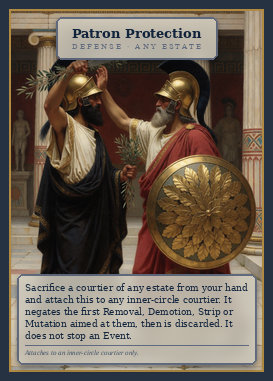
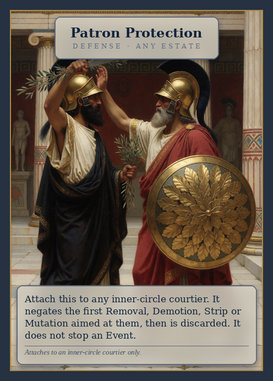
Drop the courtier costs from Defenses and Adoption
- A Defense no longer costs a matching-estate courtier from hand. Its
  estate now says whom it can shield (Patron Protection: anyone).
- Adoption no longer costs a family courtier. The target takes any
  house but their own, chosen as Conversion chooses a faith.
- Old records replay with the costs, and --courtier-costs restores them
  for simulations.
- The five Defenses and Adoption are re-rendered with the new text.
- The friendly first deal moves to seed 2791 (House Rising: Argaian,
  two in hand, all three stand-in bots win from it).

Work in progress: the hand-limit browser test needs a new seed, and the
agenda balance under the new rules is being measured.

Claude-Session: https://claude.ai/code/session_01N33ZYiZig83JtVZBownZVB

diff --git a/web/src/components/Rules.tsx b/web/src/components/Rules.tsx
@@ -21,7 +21,7 @@ const CARDS: [string, string][] = [
   ["Promotion", "Moves an outer courtier into an occupied seat of their estate; the sitter is bumped to the outer circle."],
   ["Demotion", "Sends a seated courtier back to the outer circle, leaving the seat empty."],
   ["Removal", "A courtier leaves play. Targeted Poisoning allows a saving roll."],
-  ["Defense", "Paid for with a courtier of the same estate from your hand, it shields a seated courtier from the next removal, demotion, strip or mutation. It does not stop events."],
+  ["Defense", "Shields a seated courtier of its estate (Patron Protection: anyone) from the next removal, demotion, strip or mutation. It costs nothing, and does not stop events."],
   ["Strip", "Takes away a courtier's house (Castration), or their faith, leaving them godless (Excommunication)."],
   ["Mutation", "Changes one of a courtier's attributes. Each attribute can be changed only once."],
   ["Outmaneuver", "The player you name skips their next turn."],

diff --git a/web/src/components/CardView.tsx b/web/src/components/CardView.tsx
@@ -104,7 +104,7 @@ const BY_NAME: Record<string, string> = {
   Apostasy: "Faith → Godless",
   "Go Native": "Origin → Barbarian",
   Assimilate: "Origin → Imperial",
-  Adoption: "House → a sacrifice's",
+  Adoption: "House → another",
   Castration: "House → none",
   Excommunication: "Faith → Godless",
   "Targeted Poisoning": "Kill, if no save",
@@ -122,7 +122,7 @@ export function ACTION_LABEL(card: Card): string {
     case "Removal":
       return `Kill a ${estate}courtier`;
     case "Defense":
-      return card.estate ? `Shield · pay a ${card.estate}` : "Shield a courtier";
+      return `Shield a ${estate}courtier`;
     default:
       return "";
   }

diff --git a/web/tests/game.spec.ts b/web/tests/game.spec.ts
@@ -39,7 +39,7 @@ test("a new player's first game is the kind deal, unless they choose a seed", as
   await setSeed(page, "");
   await page.getByTestId("deal").click();
   // You move first, with House Rising: Mitreas.
-  await expect(page.getByTestId("briefing").locator("h2")).toHaveText("House Rising: Mitreas");
+  await expect(page.getByTestId("briefing").locator("h2")).toHaveText("House Rising: Argaian");
   await expect(page.getByTestId("briefing")).toContainText("You move first.");
 });
 

diff --git a/web/src/firstGame.ts b/web/src/firstGame.ts
@@ -5,7 +5,7 @@
 // choosing at random wins 10 games in 60 (about one in fifteen on a random
 // deal). tests/test_friendly_seed.py keeps the engine from quietly changing it.
 
-export const FIRST_GAME_SEED = 1205;
+export const FIRST_GAME_SEED = 2791;
 
 /** The table the seed was chosen for: you and one of each bot, in this order. */
 export const FIRST_GAME_TABLE = ["naive", "greedy", "strategic"];

diff --git a/tests/test_rules.py b/tests/test_rules.py
@@ -342,8 +342,18 @@ class TestRemovalsAndDefenses(unittest.TestCase):
         apply_action(state, 0, Action(PLAY, card=kill2, courtier=defended), FixedRng())
         self.assertIsNone(state.seats[Seat.ARCHPRIEST])  # second one lands
 
-    def test_defense_costs_a_matching_estate_courtier(self):
+    def test_a_defense_costs_nothing_and_its_estate_is_whom_it_shields(self):
         state = fresh()
+        church = seat(state, "Hand of the Oracle", Seat.ARCHPRIEST)
+        soldier = seat(state, "Keeper of the Long Peace", Seat.LORD_GENERAL)
+        bodyguard = give(state, 0, "Bodyguard")[0]  # Military
+        self.assertEqual({a.courtier for a in card_actions(state, 0, bodyguard)}, {soldier})
+        self.assertTrue(all(a.sacrifice < 0 for a in card_actions(state, 0, bodyguard)))
+        patron = give(state, 0, "Patron Protection")[0]  # anyone
+        self.assertEqual({a.courtier for a in card_actions(state, 0, patron)}, {church, soldier})
+
+    def test_old_rules_defense_costs_a_matching_estate_courtier(self):
+        state = fresh(courtier_costs=True)
         seat(state, "Hand of the Oracle", Seat.ARCHPRIEST)
         shield = give(state, 0, "Bodyguard")[0]  # Military
         give(state, 0, "Beloved of the Gods")  # Church: cannot pay
@@ -351,8 +361,8 @@ class TestRemovalsAndDefenses(unittest.TestCase):
         give(state, 0, "Crosser of Rivers")  # Military: can pay
         self.assertTrue(card_actions(state, 0, shield))
 
-    def test_patron_protection_accepts_any_estate(self):
-        state = fresh()
+    def test_old_rules_patron_protection_accepts_any_estate(self):
+        state = fresh(courtier_costs=True)
         seat(state, "Hand of the Oracle", Seat.ARCHPRIEST)
         shield = give(state, 0, "Patron Protection")[0]
         give(state, 0, "Golden Thumb")
@@ -428,8 +438,19 @@ class TestDemotionsStripsMutations(unittest.TestCase):
         apply_action(state, 0, Action(PLAY, card=strip, courtier=target), FixedRng())
         self.assertIs(state.cstate[target].faith, Faith.NONE)
 
-    def test_adoption_sacrifices_a_family_courtier(self):
+    def test_adoption_gives_any_house_but_their_own(self):
         state = fresh()
+        adopt = give(state, 0, "Adoption")[0]
+        target = outer(state, "Crosser of Rivers")[0]  # Mitreas
+        options = {a.value for a in card_actions(state, 0, adopt) if a.courtier == target}
+        self.assertEqual(options, {"Amonides", "Argaian"})
+        action = next(a for a in card_actions(state, 0, adopt) if a.courtier == target and a.value == "Argaian")
+        apply_action(state, 0, action, FixedRng())
+        self.assertIs(state.cstate[target].family, Family.ARGAIAN)
+        self.assertTrue(state.cstate[target].mutated_family)
+
+    def test_old_rules_adoption_sacrifices_a_family_courtier(self):
+        state = fresh(courtier_costs=True)
         adopt, donor = give(state, 0, "Adoption", "Beloved of the Gods")
         target = outer(state, "Silver Tongue")[0]  # no family
         action = next(

diff --git a/tools/card_text.py b/tools/card_text.py
@@ -140,35 +140,30 @@ RULES: dict[str, str] = {
         "return later as a new person with their printed attributes."
     ),
     # --- Defenses -----------------------------------------------------------
-    # The estate on a defense is the estate of the courtier it costs, not of
-    # the courtier it guards: any inner-circle courtier may be shielded.
+    # The estate on a defense is whom it can shield: Patron Protection, any
+    # inner-circle courtier; the others, one of their estate.
     "Patron Protection": (
-        "Sacrifice a courtier of any estate from your hand and attach this to "
-        "any inner-circle courtier. It negates the first Removal, Demotion, "
+        "Attach this to any inner-circle courtier. It negates the first Removal, Demotion, "
         "Strip or Mutation aimed at them, then is discarded. It does not stop "
         "an Event."
     ),
     "Sanctuary": (
-        "Sacrifice a Church courtier from your hand and attach this to any "
-        "inner-circle courtier. It negates the first Removal, Demotion, Strip "
+        "Attach this to an inner-circle Church courtier. It negates the first Removal, Demotion, Strip "
         "or Mutation aimed at them, then is discarded. It does not stop an "
         "Event."
     ),
     "Bodyguard": (
-        "Sacrifice a Military courtier from your hand and attach this to any "
-        "inner-circle courtier. It negates the first Removal, Demotion, Strip "
+        "Attach this to an inner-circle Military courtier. It negates the first Removal, Demotion, Strip "
         "or Mutation aimed at them, then is discarded. It does not stop an "
         "Event."
     ),
     "Deep Pockets": (
-        "Sacrifice a Merchant courtier from your hand and attach this to any "
-        "inner-circle courtier. It negates the first Removal, Demotion, Strip "
+        "Attach this to an inner-circle Merchant courtier. It negates the first Removal, Demotion, Strip "
         "or Mutation aimed at them, then is discarded. It does not stop an "
         "Event."
     ),
     "Popularity": (
-        "Sacrifice a Commons courtier from your hand and attach this to any "
-        "inner-circle courtier. It negates the first Removal, Demotion, Strip "
+        "Attach this to an inner-circle Commons courtier. It negates the first Removal, Demotion, Strip "
         "or Mutation aimed at them, then is discarded. It does not stop an "
         "Event."
     ),
@@ -213,8 +208,8 @@ RULES: dict[str, str] = {
     "Go Native": "A courtier's Origin becomes Barbarian.",
     "Assimilate": "A courtier's Origin becomes Imperial.",
     "Adoption": (
-        "Sacrifice a courtier of a family from your hand. The target takes "
-        "that family as their own."
+        "A courtier's House becomes any house but their own; you choose it. A "
+        "courtier of no house may be brought into any of the three."
     ),
     # --- Pivot and Outmaneuver ----------------------------------------------
     "Schismatic Event": (

diff --git a/succession/actions.py b/succession/actions.py
@@ -23,7 +23,7 @@ from .cards import (
     EFFECT_REDEAL,
     EFFECT_RESHUFFLE,
 )
-from .enums import FAITHS, SEAT_ESTATE, CardKind, Estate, Faith, Family, Seat
+from .enums import FAITHS, FAMILIES, SEAT_ESTATE, CardKind, Estate, Faith, Family, Seat
 from .state import GameState
 
 #: Kinds a Siege stops outright -- anything that moves a courtier or changes one.
@@ -165,21 +165,26 @@ def card_actions(state: GameState, player: int, uid: int) -> list[Action]:
         return out
 
     if kind is CardKind.DEFENSE:
-        costs = [
-            h
-            for h in hand
-            if h != uid
-            and state.card(h).is_courtier
-            and _estate_matches(card.estate, state.cstate[h].estate)
-        ]
+        paid = state.config.courtier_costs
+        costs = (
+            [
+                h
+                for h in hand
+                if h != uid
+                and state.card(h).is_courtier
+                and _estate_matches(card.estate, state.cstate[h].estate)
+            ]
+            if paid
+            else [-1]
+        )
         if not costs:
             return out
+        # Without a cost, the card's estate is whom it can shield.
+        matching = state.config.defense_requires_matching_target or not paid
         for cand in state.inner_uids():
             if cand in state.defenses:
                 continue
-            if state.config.defense_requires_matching_target and not _estate_matches(
-                card.estate, state.cstate[cand].estate
-            ):
+            if matching and not _estate_matches(card.estate, state.cstate[cand].estate):
                 continue
             for cost in costs:
                 out.append(Action(PLAY, card=uid, courtier=cand, sacrifice=cost))
@@ -238,7 +243,18 @@ def _mutation_actions(state: GameState, player: int, uid: int) -> list[Action]:
                     out.append(Action(PLAY, card=uid, courtier=cand, value=faith.value))
         return out
 
-    if attribute == "family":  # Adoption
+    if attribute == "family" and not state.config.courtier_costs:  # Adoption, free
+        # Any house but the one they hold, as Conversion does for faith.
+        for cand in _touchable(state):
+            cs = state.cstate[cand]
+            if cs.mutated_family:
+                continue
+            for family in FAMILIES:
+                if family is not cs.family:
+                    out.append(Action(PLAY, card=uid, courtier=cand, value=family.value))
+        return out
+
+    if attribute == "family":  # Adoption, paid for with a family courtier
         costs = [
             h
             for h in hand

diff --git a/succession/runner.py b/succession/runner.py
@@ -100,6 +100,7 @@ def build_config(args: argparse.Namespace, tiers=BOT_TIERS) -> Config:
         caster_edge=args.caster_edge,
         defense_requires_matching_target=args.defense_matches_target,
         excommunication_godless=not args.excommunication_none,
+        courtier_costs=args.courtier_costs,
         house_rising_requires_preferred_seat=not args.house_any_three,
         house_preferred_estates=parse_preferred_estates(args.house_preferred_estates),
         faith_seats=args.faith_seats,
@@ -219,6 +220,7 @@ def add_rules_arguments(parser: argparse.ArgumentParser, players: str = DEFAULT_
     parser.add_argument("--events-held", action="store_true", help="events are held and played from hand (default: an event plays the moment it is drawn, and the drawer draws again)")
     parser.add_argument("--minor-events-on-draw", action="store_true", help="with --events all: only the minor events play when drawn; the majors are held")
     parser.add_argument("--removed-out-of-game", action="store_true", help="killed courtiers never return (default: they may reshuffle back as a new person)")
+    parser.add_argument("--courtier-costs", action="store_true", help="variant: Defenses and Adoption cost a courtier from your hand (the old rules)")
     parser.add_argument("--excommunication-none", action="store_true", help="variant: Excommunication leaves an empty faith (None) rather than Godless")
     parser.add_argument("--defense-matches-target", action="store_true", help="an estate Defense may only protect a courtier of that estate")
     parser.add_argument("--balance-seats", type=int, default=7, help="seats that must be filled for Balance to count (default all 7)")

diff --git a/succession/state.py b/succession/state.py
@@ -71,6 +71,10 @@ class Config:
     #: Require an estate-specific Defense to protect a courtier of that estate
     #: (the text only requires the *sacrificed* courtier to match).
     defense_requires_matching_target: bool = False
+    #: Defenses and Adoption cost a courtier from your hand. Off (the rules
+    #: now): a Defense's estate says whom it can shield instead of what it
+    #: costs, and Adoption picks the new house freely, like Conversion.
+    courtier_costs: bool = False
     #: Excommunication leaves a courtier Godless. False: it leaves the old
     #: empty faith (None), which a godless courtier could still be stripped to.
     excommunication_godless: bool = True

diff --git a/succession/cards.py b/succession/cards.py
@@ -140,7 +140,8 @@ MUTATION_CARDS: tuple[CardDef, ...] = (
     CardDef("Apostasy", CardKind.MUTATION, attribute="faith", value=Faith.GODLESS.value),
     CardDef("Go Native", CardKind.MUTATION, attribute="origin", value=Origin.BARBARIAN.value),
     CardDef("Assimilate", CardKind.MUTATION, attribute="origin", value=Origin.IMPERIAL.value),
-    # Adoption takes its value from the family courtier sacrificed from hand.
+    # Adoption: any house you choose (or, with Config.courtier_costs, the
+    # house of a family courtier sacrificed from hand).
     CardDef("Adoption", CardKind.MUTATION, attribute="family"),
 )
 

diff --git a/succession/session.py b/succession/session.py
@@ -426,6 +426,8 @@ class GameSession:
         config.setdefault("max_rounds", None)
         # ...and before an Excommunication left a courtier godless.
         config.setdefault("excommunication_godless", False)
+        # ...and before Defenses and Adoption stopped costing a courtier.
+        config.setdefault("courtier_costs", True)
         if version == 1:
             config.setdefault("discard_draws", False)
         if version in (1, 2):

diff --git a/docs/CARDS.md b/docs/CARDS.md
@@ -124,11 +124,11 @@ Attached to an inner-circle courtier ahead of time, paid for by sacrificing a co
 
 | | Card | Type | What it does |
 |---|---|---|---|
-| <img src="cards/67-patron-protection.jpg" alt="Patron Protection" width="132"> | **Patron Protection**<br><sub>Card 67</sub> | Defense · Any Estate | Sacrifice a courtier of any estate from your hand and attach this to any inner-circle courtier. It negates the first Removal, Demotion, Strip or Mutation aimed at them, then is discarded. It does not stop an Event. |
-| <img src="cards/68-sanctuary.jpg" alt="Sanctuary" width="132"> | **Sanctuary**<br><sub>Card 68</sub> | Defense · Church | Sacrifice a Church courtier from your hand and attach this to any inner-circle courtier. It negates the first Removal, Demotion, Strip or Mutation aimed at them, then is discarded. It does not stop an Event. |
-| <img src="cards/69-bodyguard.jpg" alt="Bodyguard" width="132"> | **Bodyguard**<br><sub>Card 69</sub> | Defense · Military | Sacrifice a Military courtier from your hand and attach this to any inner-circle courtier. It negates the first Removal, Demotion, Strip or Mutation aimed at them, then is discarded. It does not stop an Event. |
-| <img src="cards/70-deep-pockets.jpg" alt="Deep Pockets" width="132"> | **Deep Pockets**<br><sub>Card 70</sub> | Defense · Merchant | Sacrifice a Merchant courtier from your hand and attach this to any inner-circle courtier. It negates the first Removal, Demotion, Strip or Mutation aimed at them, then is discarded. It does not stop an Event. |
-| <img src="cards/71-popularity.jpg" alt="Popularity" width="132"> | **Popularity**<br><sub>Card 71</sub> | Defense · Commons | Sacrifice a Commons courtier from your hand and attach this to any inner-circle courtier. It negates the first Removal, Demotion, Strip or Mutation aimed at them, then is discarded. It does not stop an Event. |
+| <img src="cards/67-patron-protection.jpg" alt="Patron Protection" width="132"> | **Patron Protection**<br><sub>Card 67</sub> | Defense · Any Estate | Attach this to any inner-circle courtier. It negates the first Removal, Demotion, Strip or Mutation aimed at them, then is discarded. It does not stop an Event. |
+| <img src="cards/68-sanctuary.jpg" alt="Sanctuary" width="132"> | **Sanctuary**<br><sub>Card 68</sub> | Defense · Church | Attach this to an inner-circle Church courtier. It negates the first Removal, Demotion, Strip or Mutation aimed at them, then is discarded. It does not stop an Event. |
+| <img src="cards/69-bodyguard.jpg" alt="Bodyguard" width="132"> | **Bodyguard**<br><sub>Card 69</sub> | Defense · Military | Attach this to an inner-circle Military courtier. It negates the first Removal, Demotion, Strip or Mutation aimed at them, then is discarded. It does not stop an Event. |
+| <img src="cards/70-deep-pockets.jpg" alt="Deep Pockets" width="132"> | **Deep Pockets**<br><sub>Card 70</sub> | Defense · Merchant | Attach this to an inner-circle Merchant courtier. It negates the first Removal, Demotion, Strip or Mutation aimed at them, then is discarded. It does not stop an Event. |
+| <img src="cards/71-popularity.jpg" alt="Popularity" width="132"> | **Popularity**<br><sub>Card 71</sub> | Defense · Commons | Attach this to an inner-circle Commons courtier. It negates the first Removal, Demotion, Strip or Mutation aimed at them, then is discarded. It does not stop an Event. |
 
 ## Strip
 
@@ -153,7 +153,7 @@ Changes one attribute. Each attribute may be mutated at most once per courtier.
 | <img src="cards/79-apostasy.jpg" alt="Apostasy" width="132"> | **Apostasy**<br><sub>Card 79</sub> | Mutation · Faith | A courtier's Faith becomes Godless. Godlessness has no agenda, so their seat is one no faith can count. |
 | <img src="cards/80-go-native.jpg" alt="Go Native" width="132"> | **Go Native**<br><sub>Card 80</sub> | Mutation · Origin | A courtier's Origin becomes Barbarian. |
 | <img src="cards/81-assimilate.jpg" alt="Assimilate" width="132"> | **Assimilate**<br><sub>Card 81</sub> | Mutation · Origin | A courtier's Origin becomes Imperial. |
-| <img src="cards/82-adoption.jpg" alt="Adoption" width="132"> | **Adoption**<br><sub>Card 82</sub> | Mutation · Family | Sacrifice a courtier of a family from your hand. The target takes that family as their own. |
+| <img src="cards/82-adoption.jpg" alt="Adoption" width="132"> | **Adoption**<br><sub>Card 82</sub> | Mutation · Family | A courtier's House becomes any house but their own; you choose it. A courtier of no house may be brought into any of the three. |
 
 ## Pivot
 
